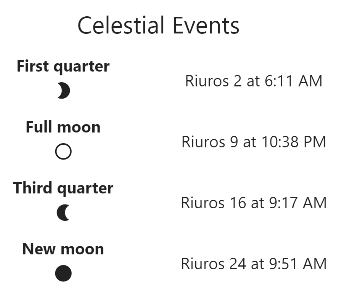
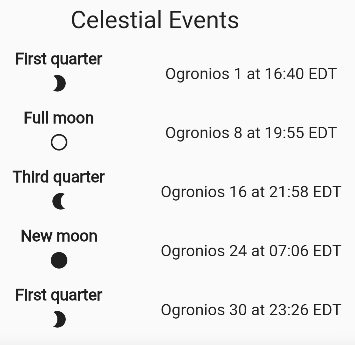
update the docs to match current ux

diff --git a/README.md b/README.md
@@ -19,10 +19,9 @@ Tapping Current Month will return you to "Today".
 ### The Settings Drawer
 ![Settings Drawer](./assets/doc/settings_drawer.png)
 
-Here you can swap between implemented calendar types, as well as toggle settings
-unique to that calendar. In the picture, the Coligny Calendar has been selected
-and you can see a setting to set whether you want the metonic cycle version or
-not.
+Here you can change to 24 hour time display, swap between implemented calendar
+types, as well as toggle settings unique to that calendar. In the picture, 24 Hour Time is disabled, the Coligny Calendar has been selected, and you the metonic cycle
+version of the calendar has been enabled.
 
 ### The Calendar
 ![Calendar](./assets/doc/calendar.png)
@@ -35,10 +34,12 @@ months are greyed out.
 ![Event Readout](./assets/doc/readout.png)
 
 Tells you what event is happening at what time on what day. It almost certainly
-displays the time in your local timezone. If your screen is short enough to not
-render both the calendar and the readout at the same time (likely will always
-happen on landscape orientation desktop monitors), this little icon will
-appear in the bottom left corner:
+displays the time in your local timezone, but just in case, the timezone of the
+displayed time is attached to the end. It also respects the 24hr time option
+from the settings above. If your screen is short enough to not render both the
+calendar and the readout at the same time (likely will always happen on
+landscape orientation desktop monitors), this little icon will appear in the
+bottom left corner:
 
 ![Readout Link](./assets/doc/events_link.png)
 
